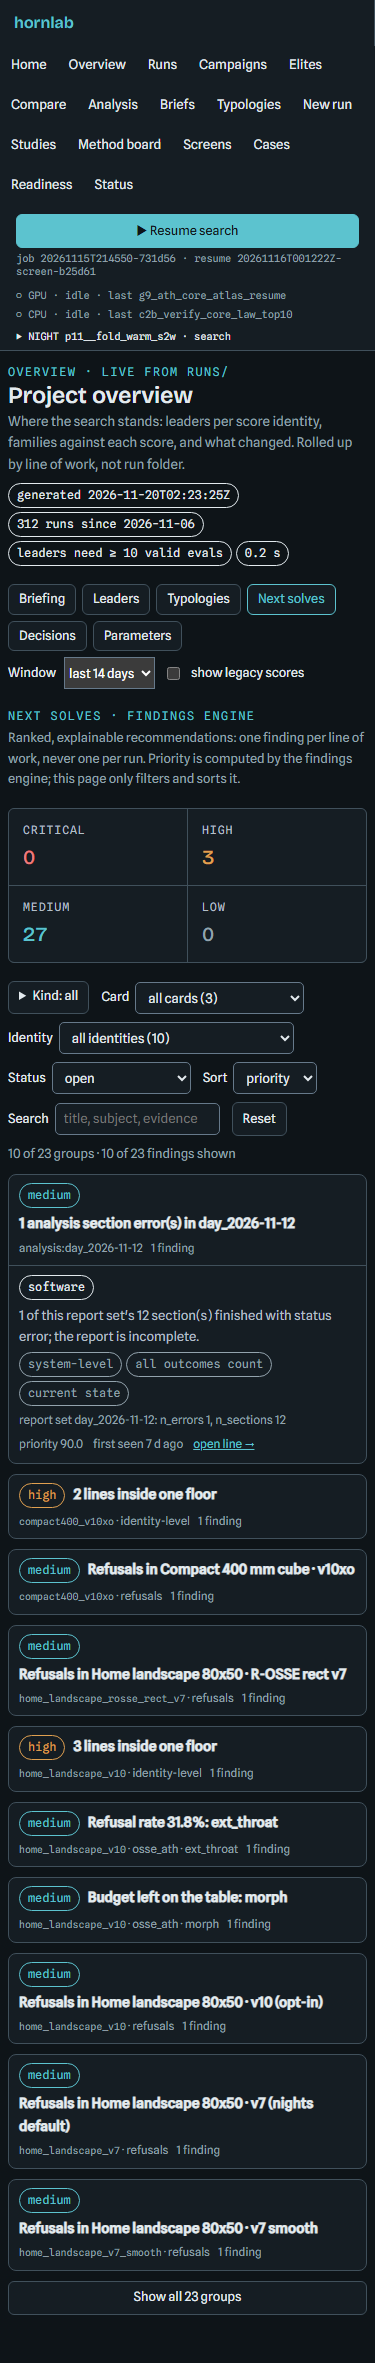
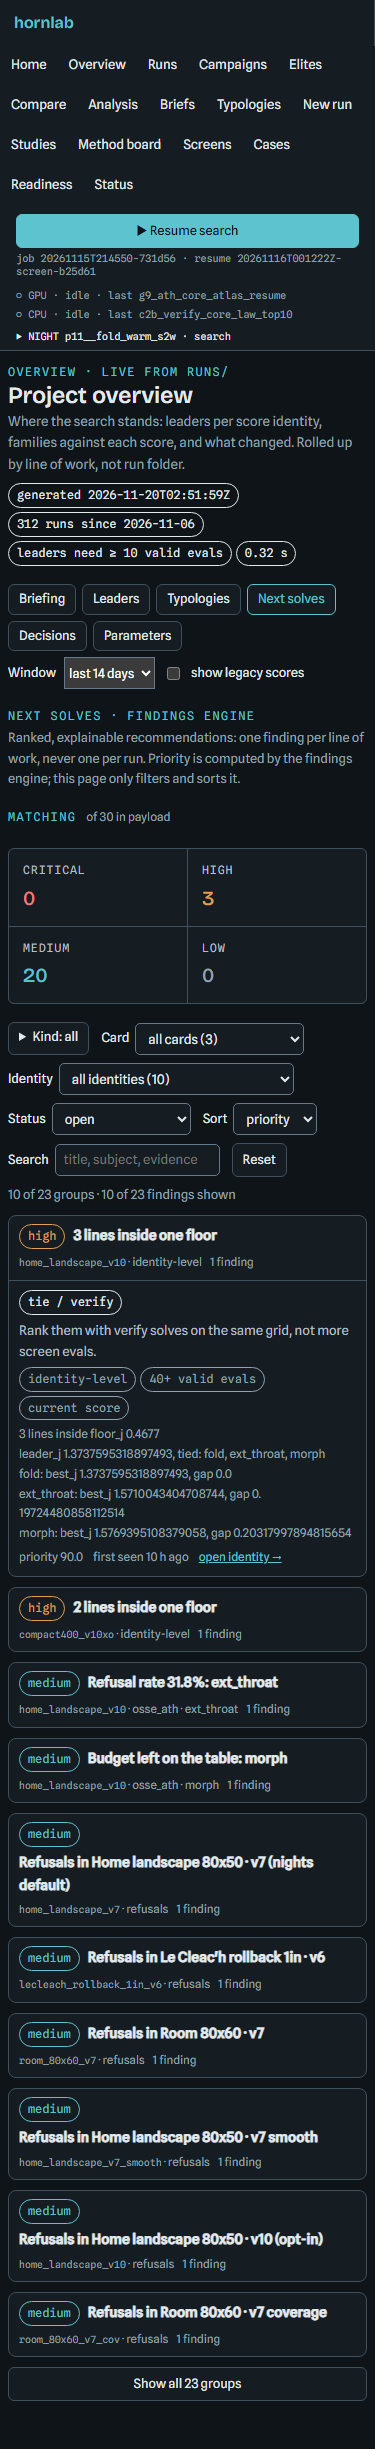
fix(gui): Overview phase 2-4 visual QA - narrow param rows, findings order/counter, registry labels
Independent image review of the first browser pass found 16 issues (2 blockers).
This follow-up fixes all of them in the three overview JS modules:

- params 375 px: numeric columns hidden means the row header now carries a
  right-aligned, nowrap 'J <v> * N hits' group; segments never wrap mid-token,
  the line-table header prints once, and the tab no longer repeats the
  generation timestamp.
- findings: groups follow the payload's severity-tied order instead of a
  score re-sort; the severity tiles count the matching subset ('of 30 in
  payload') so the strip reconciles with 'X of Y groups * X of Y findings'.
- registry: no 'WP WP4', no lone 'WP -', SOURCE moves under the
  recommendation, the always-empty DECIDED column is hidden, and the header
  reads '33 risks + 12 decisions = 45 rows'.

Findings data-side tie-break kept HIGH above MEDIUM at equal score
(data_overview_findings.sort_key: status, -score, severity; used by the
engine, the health join and the merged API route).

Browser check re-run: 24/24 combinations clean (1280/375, dark/light), URL
state reload-safe. Tests: 90 passed (overview suite + lane pick).

Changed region(s): [[0.0, 0.0, 0.9387, 0.9886], [0.9093, 0.1545, 0.9387, 0.1854], [0.8507, 0.5252, 0.88, 0.5561]]

diff --git a/hornlab_search/gui/static/overview_findings.js b/hornlab_search/gui/static/overview_findings.js
@@ -82,6 +82,8 @@ const STYLE = `
 .ovf-empty{margin:0}
 .ovf-more{align-self:start}
 .ovf-more[hidden]{display:none}
+.ovf-kpihead{display:flex;flex-wrap:wrap;gap:2px 10px;align-items:baseline;margin:0 0 4px}
+.ovf-kpihead .muted{font-size:.74rem}
 /* Four severity tiles: two full columns at phone width; no empty tinted track. */
 @media (max-width:640px){
   .kpis.ovf-kpis{grid-template-columns:repeat(2,minmax(0,1fr)) !important}
@@ -155,28 +157,32 @@ function groupFindings(list, s) {
   const idx = new Map();
   list.forEach((f, i) => idx.set(f.id, i));
   const by = new Map();
+  let seq = 0;
   for (const f of list) {
     const key = String(f.identity_id || "") + "\u0000" + String(f.line_key || "");
     let g = by.get(key);
     if (!g) {
-      g = { key, identity_id: String(f.identity_id || ""), line_key: String(f.line_key || ""), findings: [] };
+      // first finding in payload order fixes the group's place; Map keeps that insertion order.
+      g = { key, identity_id: String(f.identity_id || ""), line_key: String(f.line_key || ""), findings: [], first: seq++ };
       by.set(key, g);
     }
     g.findings.push(f);
   }
   const groups = [...by.values()];
   for (const g of groups) {
-    g.findings.sort((a, b) => compareFindings(a, b, s, idx));
+    // Priority order is the payload's order (server sorts status, score, severity). Only the
+    // explicit sort controls reorder findings/groups; priority never re-sorts by score.
+    if (s.sort !== "priority") g.findings.sort((a, b) => compareFindings(a, b, s, idx));
     g.top = [...g.findings].sort((a, b) => (sevOf(a) - sevOf(b)) || (scoreOf(b) - scoreOf(a)))[0];
     g.score = Math.max(...g.findings.map(scoreOf));
     g.open = g.findings.some(isOpen);
     g.newest = Math.max(...g.findings.map(f => tsOf(f.first_seen_utc)));
   }
-  groups.sort((a, b) => {
-    if (s.sort === "newest") return (b.newest - a.newest) || (Number(b.open) - Number(a.open)) || (b.score - a.score);
-    if (s.sort === "identity") return a.identity_id.localeCompare(b.identity_id) || (Number(b.open) - Number(a.open)) || (b.score - a.score);
-    return (Number(b.open) - Number(a.open)) || (b.score - a.score) || a.identity_id.localeCompare(b.identity_id);
-  });
+  if (s.sort === "newest") {
+    groups.sort((a, b) => (b.newest - a.newest) || (a.first - b.first));
+  } else if (s.sort === "identity") {
+    groups.sort((a, b) => a.identity_id.localeCompare(b.identity_id) || (a.first - b.first));
+  }
   return groups;
 }
 
@@ -203,7 +209,7 @@ function findingHtml(f, isLead = false) {
       <b class="ovf-ftitle">${esc(f.title)}</b>
       ${statusHtml(f)}
     </div>`;
-  return `<article class="ovf-find">
+  return `<article class="ovf-find" data-sev="${esc(sev)}">
     ${head}
     ${f.detail ? `<p class="ovf-detail">${esc(f.detail)}</p>` : ""}
     ${why ? `<div class="pill-row ovf-why">${why}</div>` : ""}
@@ -264,25 +270,27 @@ export function findingsTabHtml(fd, state) {
   if (!fd || typeof fd !== "object") return `<p class="muted">No findings data available.</p>`;
   const s = normState(state);
   const all = (fd && Array.isArray(fd.findings)) ? fd.findings.filter(Boolean) : [];
-  const counts = {};
-  for (const sv of SEV) {
-    const n = fd && fd.counts ? Number(fd.counts[sv]) : NaN;
-    counts[sv] = isFinite(n) ? n : all.filter(f => sevName(f) === sv).length;
-  }
   const head = `<div>
     <div class="eyebrow">Next solves · findings engine</div>
     <p class="muted" style="font-size:.8rem;margin:2px 0 0">Ranked, explainable recommendations: one finding per line of work, never one per run. Priority is computed by the findings engine; this page only filters and sorts it.</p>
   </div>`;
-  const kpis = `<div class="kpis ovf-kpis">${SEV.map(sv => kpi(SEV_LABEL[sv], int(counts[sv]), "", SEV_CLASS[sv])).join("")}</div>`;
-  if (!all.length) {
-    return `${head}${kpis}<p class="muted ovf-empty">${s.status === "open"
-      ? "Nothing open — every line has room to run" : "No findings match"}</p>`;
-  }
 
   const kindSet = new Set(s.kind.split(",").map(x => x.trim()).filter(Boolean));
   const cards = [...new Set(all.map(cardOf).filter(Boolean))].sort();
   const idents = [...new Set(all.map(f => String(f.identity_id || "")).filter(Boolean))].sort();
   const list = all.filter(f => matches(f, s, kindSet));
+  // Tiles count what the list predicate matches (wireFindings refines them for the local search),
+  // so the strip, the counter and the groups always add up.
+  const matchCounts = {};
+  for (const sv of SEV) matchCounts[sv] = list.filter(f => sevName(f) === sv).length;
+  const kpis = `<div class="ovf-kpihead"><span class="eyebrow">Matching</span><span class="muted">of ${int(all.length)} in payload</span></div>
+    <div class="kpis ovf-kpis">${SEV.map(sv =>
+      `<div class="kpi"><span>${esc(SEV_LABEL[sv])}</span><b class="${SEV_CLASS[sv]}" data-ovf-sev="${sv}">${int(matchCounts[sv])}</b></div>`).join("")}</div>`;
+  if (!all.length) {
+    return `${head}${kpis}<p class="muted ovf-empty">${s.status === "open"
+      ? "Nothing open — every line has room to run" : "No findings match"}</p>`;
+  }
+
   const groups = groupFindings(list, s);
   const top = groups.slice(0, 10);
   const rest = groups.slice(10);
@@ -298,9 +306,7 @@ export function findingsTabHtml(fd, state) {
     <label>Sort <select id="ovf-sort">${option("priority", "priority", s.sort === "priority")}${option("newest", "newest", s.sort === "newest")}${option("identity", "identity", s.sort === "identity")}</select></label>
     <label>Search <input type="search" id="ovf-q" value="${esc(s.q)}" placeholder="title, subject, evidence" autocomplete="off" aria-label="Search findings"></label>
     <button type="button" class="btn btn-sm" id="ovf-reset">Reset</button>
-    <span class="muted" id="ovf-shown" aria-live="polite">${rest.length
-      ? `${int(top.length)} of ${int(groups.length)} groups · ${int(top.reduce((n, g) => n + g.findings.length, 0))} of ${int(list.length)} findings shown`
-      : `${int(groups.length)} groups · ${int(list.length)} findings`}</span>
+    <span class="muted" id="ovf-shown" aria-live="polite">${int(top.length)} of ${int(groups.length)} groups · ${int(top.reduce((n, g) => n + g.findings.length, 0))} of ${int(list.length)} findings shown</span>
   </div>`;
 
   const body = `<div class="ovf-body">
@@ -340,10 +346,27 @@ export function wireFindings(root, state, onChange) {
   const more = qs("#ovf-more");
   const nomatch = qs("#ovf-nomatch");
   const counter = qs("#ovf-shown");
+  const sevValues = [...root.querySelectorAll("[data-ovf-sev]")];
   const allGroups = [...root.querySelectorAll("details.ovf-grp")];
   const totalGroups = allGroups.length;
   const totalRows = root.querySelectorAll(".ovf-find").length;
   let restOpen = false;
+
+  // Tiles follow the filter predicate (kind/card/identity/status, plus the local search). The
+  // 10-group paging is a display choice and must not change the matching totals.
+  const updateCounts = () => {
+    if (!sevValues.length) return;
+    const counts = { critical: 0, high: 0, medium: 0, low: 0 };
+    for (const f of root.querySelectorAll(".ovf-find")) {
+      if (f.hidden) continue;
+      const sv = String(f.dataset.sev || "").toLowerCase();
+      if (sv in counts) counts[sv]++;
+    }
+    for (const b of sevValues) {
+      const sv = b.dataset.ovfSev;
+      b.textContent = (counts[sv] || 0).toLocaleString("en-US");
+    }
+  };
 
   // Group count and finding count are different units: always label both.
   const updateCounter = () => {
@@ -356,9 +379,7 @@ export function wireFindings(root, state, onChange) {
       gvis++;
       for (const f of g.querySelectorAll(".ovf-find")) if (!f.hidden) fvis++;
     }
-    counter.textContent = (gvis === totalGroups && fvis === totalRows)
-      ? `${int(totalGroups)} groups · ${int(totalRows)} findings`
-      : `${int(gvis)} of ${int(totalGroups)} groups · ${int(fvis)} of ${int(totalRows)} findings shown`;
+    counter.textContent = `${int(gvis)} of ${int(totalGroups)} groups · ${int(fvis)} of ${int(totalRows)} findings shown`;
   };
 
   const applyQ = () => {
@@ -378,6 +399,7 @@ export function wireFindings(root, state, onChange) {
     }
     if (nomatch) nomatch.hidden = vis !== 0;
     updateCounter();
+    updateCounts();
   };
 
   q?.addEventListener("input", applyQ);
@@ -394,6 +416,7 @@ export function wireFindings(root, state, onChange) {
     more.setAttribute("aria-expanded", restOpen ? "true" : "false");
     more.textContent = restOpen ? "Show top 10 groups" : `Show all ${topCount(root)} groups`;
     updateCounter();
+    updateCounts();
   });
 
   applyQ();

diff --git a/hornlab_search/gui/static/overview_params.js b/hornlab_search/gui/static/overview_params.js
@@ -39,12 +39,15 @@ const STYLE = `
 .ovp-tbl th,.ovp-tbl td{padding:6px 8px;vertical-align:top}
 .ovp-tbl th.r,.ovp-tbl td.r{white-space:nowrap}
 .ovp-linecell{white-space:normal;min-width:0}
-.ovp-narrow{display:none;font-size:.76rem}
-.ovp-narrow .pill{font-size:.68rem}
+.ovp-lname{min-width:0;white-space:normal;overflow-wrap:anywhere}
+.ovp-rowmeta{min-width:0}
+.ovp-narrow{display:none;font-size:.76rem;white-space:nowrap}
+.ovp-seg{white-space:nowrap}
 .ovp-line>summary{cursor:pointer;padding:2px 0;overflow-wrap:anywhere}
 .ovp-line>summary:focus-visible{outline:2px solid var(--accent);outline-offset:2px}
-.ovp-line>summary a{overflow-wrap:anywhere}
+.ovp-line>summary a{white-space:normal;overflow-wrap:anywhere}
 .ovp-knobs{font-size:.72rem;margin-left:8px}
+.ovp-knobs .ovp-seg + .ovp-seg::before{content:"·";margin:0 6px;color:var(--muted)}
 .ovp-body{display:grid;gap:8px;margin:8px 0 2px;min-width:0}
 .ovp-sub{display:grid;gap:3px;min-width:0}
 .ovp-chips .pill{font-size:.7rem;white-space:normal;overflow-wrap:anywhere}
@@ -61,7 +64,10 @@ const STYLE = `
   /* Best J and the hit count move into the line cell; the table never clips a header to one letter. */
   .ovp-tbl .ovp-num{display:none}
   .ovp-tbl{min-width:0}
-  .ovp-narrow{display:inline}
+  /* One right-aligned meta block per row; breaks happen only between nowrap segments. */
+  .ovp-rowmeta{display:flex;flex-wrap:wrap;justify-content:flex-end;align-items:baseline;gap:2px 10px;width:max-content;max-width:100%;margin-left:auto}
+  .ovp-narrow{display:inline-flex;align-items:baseline}
+  .ovp-knobs{display:flex;flex-wrap:wrap;justify-content:flex-end;gap:2px 8px;margin-left:0}
   .ovp-free-scroll .tbl-scroll-hint{display:block}
 }
 @media (max-width:640px){
@@ -130,19 +136,26 @@ function lineRow(l) {
     ? `<a href="#/run/${encodeURIComponent(String(l.best_run_id))}">${label}</a>`
     : label;
   const hasKnobs = !err && (fixed.length > 0 || free.length > 0);
-  const hitText = hits
-    ? pill(`${int(hits)} hit${hits === 1 ? "" : "s"}`, "bad", "free knobs within 2% of their own bound")
-    : `<span class="muted">0 hits</span>`;
-  // Narrow layout hides the numeric columns, so J and the hit count stay in the row header itself.
-  const narrow = `<span class="ovp-narrow muted">J <span class="mono">${num(l.best_j)}</span> · ${hitText}</span>`;
-  const summary = `<summary>${linked}${narrow}<span class="ovp-knobs muted">${int(fixed.length)} fixed · ${int(free.length)} free${hits ? ` · ${int(hits)} at a bound` : ""}</span></summary>`;
+  const hitText = `${int(hits)} hit${hits === 1 ? "" : "s"}`;
+  const hitCell = hits
+    ? pill(hitText, "bad", "free knobs within 2% of their own bound")
+    : `<span class="muted">${hitText}</span>`;
+  // Narrow layout: one right-aligned meta block, each segment nowrap.
+  const narrow = `<span class="ovp-narrow mono"><span class="ovp-j">J ${esc(num(l.best_j))}</span> · <span class="ovp-hitseg${hits ? " bad-text" : ""}">${esc(hitText)}</span></span>`;
+  const knobSegs = [
+    `${int(fixed.length)} fixed`,
+    `${int(free.length)} free`,
+    hits ? `${int(hits)} at a bound` : "",
+  ].filter(Boolean).map(s => `<span class="ovp-seg">${esc(s)}</span>`).join("");
+  const knobs = `<span class="ovp-knobs muted">${knobSegs}</span>`;
+  const summary = `<summary><span class="ovp-lname">${linked}</span> <span class="ovp-rowmeta">${narrow}${knobs}</span></summary>`;
   const cell = hasKnobs
     ? `<details class="ovp-line">${summary}<div class="ovp-body">${fixedBlock(fixed)}${freeBlock(free)}</div></details>`
-    : `<div class="ovp-lineflat">${linked}${narrow}</div>`;
+    : `<div class="ovp-lineflat"><span class="ovp-lname">${linked}</span> <span class="ovp-rowmeta">${narrow}</span></div>`;
   return `<tr>
     <td class="ovp-linecell">${cell}${err ? `<p class="muted ovp-err">${esc(err)}</p>` : ""}</td>
     <td class="r mono ovp-num">${num(l.best_j)}</td>
-    <td class="r ovp-num">${hitText}</td></tr>`;
+    <td class="r ovp-num">${hitCell}</td></tr>`;
 }
 
 function identityCard(ident, first = false) {
@@ -154,12 +167,13 @@ function identityCard(ident, first = false) {
   const head = `<div class="eyebrow">score identity${ident.objective_version != null ? ` · v${esc(ident.objective_version)}` : ""}</div>
     <h3>${esc(ident.label || ident.id || MISSING)} ${statusPill} ${pill(`${int(nBound)} line${nBound === 1 ? "" : "s"} at a bound`, nBound ? "warn" : "", "lines with at least one free knob within 2% of its bound")}</h3>
     <p class="muted mono ovp-meta">${brk(ident.id || MISSING)} · ${int(lines.length)} line${lines.length === 1 ? "" : "s"}</p>`;
-  // One visible header row for the whole page; later tables keep a hidden caption for screen readers.
-  const caption = first ? "" : `<caption class="sr-only">Line of work, best J, bound hits</caption>`;
+  // One visible header row for the whole page. Later tables carry no header/caption at all — only
+  // an aria-label — so nothing can repeat (or show if a .sr-only rule is missing from the theme).
   const thead = first ? `<thead><tr><th>Line of work</th><th class="r ovp-num">best J</th><th class="r ovp-num">bound hits</th></tr></thead>` : "";
+  const tableLabel = first ? "" : ` aria-label="Line of work, best J, bound hits"`;
   const table = `<div class="tbl-scroll ovp-scroll">
-    <div class="tbl-wrap"><table class="ov-tbl ovp-tbl">
-    ${caption}${thead}
+    <div class="tbl-wrap"><table class="ov-tbl ovp-tbl"${tableLabel}>
+    ${thead}
     <tbody>${lines.map(lineRow).join("")}</tbody></table></div></div>`;
   return `<section class="card ovp-id">${head}${table}</section>`;
 }
@@ -175,7 +189,6 @@ export function paramsTabHtml(pd) {
   const fixedTotal = lines.reduce((n, l) => n + (Array.isArray(l.fixed) ? l.fixed.length : 0), 0);
   const windowPills = [
     pd.days != null ? pill(`last ${int(pd.days)} day${Number(pd.days) === 1 ? "" : "s"}`) : "",
-    pd.generated_utc ? pill(`generated ${pd.generated_utc}`) : "",
     pd.show_legacy ? pill("includes legacy scores", "warn") : "",
   ].filter(Boolean).join(" ");
 

diff --git a/docs/CONTINUITY.md b/docs/CONTINUITY.md
@@ -37,8 +37,27 @@
 - **Deferred:** wiring the snapshot into the night runner (O3) needs an edit to `tools/night_queue`
   and an owner-approved unattended path; the job is available from the Overview button instead. A
   full 14-day snapshot was not run (smoke only).
+- **Visual QA (same day):** an independent image review of the six tabs found 16 issues — 2 blockers
+  (the Parameters table lost BEST J / bound-hit columns at 375 px; an expanded findings group
+  repeated its own header) and 14 cosmetic bugs (`WP WP4`, a character-broken SOURCE column, a risk
+  counter implying missing rows, a duplicated timestamp, severity order). All fixed: the narrow
+  params row now labels `J 2.498 · 0 hits` in a right-aligned nowrap group; findings groups follow the
+  payload's severity-tied order and the severity tiles count the *matching* subset with an
+  "of N in payload" note; the registry hides an all-empty Decided column and prints `source:` under
+  the recommendation. Final Playwright pass 24/24 clean at 1280/375 dark/light, URL state reload-safe
+  (also verified with `tab=next&status=all&sort=newest&kind=budget`). Screenshots refreshed.
 - **State:** GPU lane untouched (no solve, no lock change). `runs/overview/{index.json,finding_state.json}`
   are the only GUI-written state; both are git-ignored with `runs/`.
+- **Visual QA (same day, follow-up commit):** an independent image review of the first browser pass
+  found 16 issues, 2 of them blockers (the Parameters table lost BEST J / bound-hit values at 375 px;
+  an expanded findings group repeated its own header). All are fixed in the three `overview_*.js`
+  modules: narrow params rows print a right-aligned `J <v> · N hits` group with nowrap segments, the
+  line-table header prints once, the tab timestamp is gone; findings groups keep the payload's
+  severity-tied order, the severity tiles count the matching subset (`of 30 in payload`) and the
+  counter reads `X of Y groups · X of Y findings shown`; the registry drops `WP WP4`, the 50 px
+  SOURCE column and the always-empty DECIDED column and states `33 risks + 12 decisions = 45 rows`.
+  A severity tie-break (`F.sort_key`: status, −score, severity) keeps HIGH above MEDIUM at equal
+  score. Browser pass re-run: 24/24, 0 failures.
 
 ## 2026-11-19 - GUI Overview phase 1 + implementation plan (CPU only, no GPU)
 

diff --git a/docs/ISSUES.md b/docs/ISSUES.md
@@ -20,6 +20,13 @@
   still fails on `subprocess.Popen` in `gui/study_jobs.py` (pre-existing, untouched here).
 - NOTE: `runs/overview/index.json` (306 KB) and `finding_state.json` are the only GUI-written state;
   both are ignored with `runs/`. The index rebuilds itself when corrupt or when the schema changes.
+- RESOLVED (visual QA, same day): 16 issues from an independent image review are fixed - params
+  keeps best J + bound hits at 375 px (right-aligned nowrap group, header printed once, no duplicate
+  timestamp), findings groups follow the payload's severity-tied order with matching-subset tile
+  counts, registry drops `WP WP4` / the 50 px SOURCE column / the always-empty DECIDED column and
+  states `33 risks + 12 decisions = 45 rows`. Browser pass re-run 24/24 clean.
+- OPEN (pre-existing, other lane): the shell's sidebar "Resume search" button is clipped at 1280 by
+  the nav column (`app.js` taskbar + `app.css`); present in HEAD, unrelated to the Overview work.
 
 ## 2026-11-19 - GUI Overview phase 1 (DONE) + phases 2-4 planned
 
